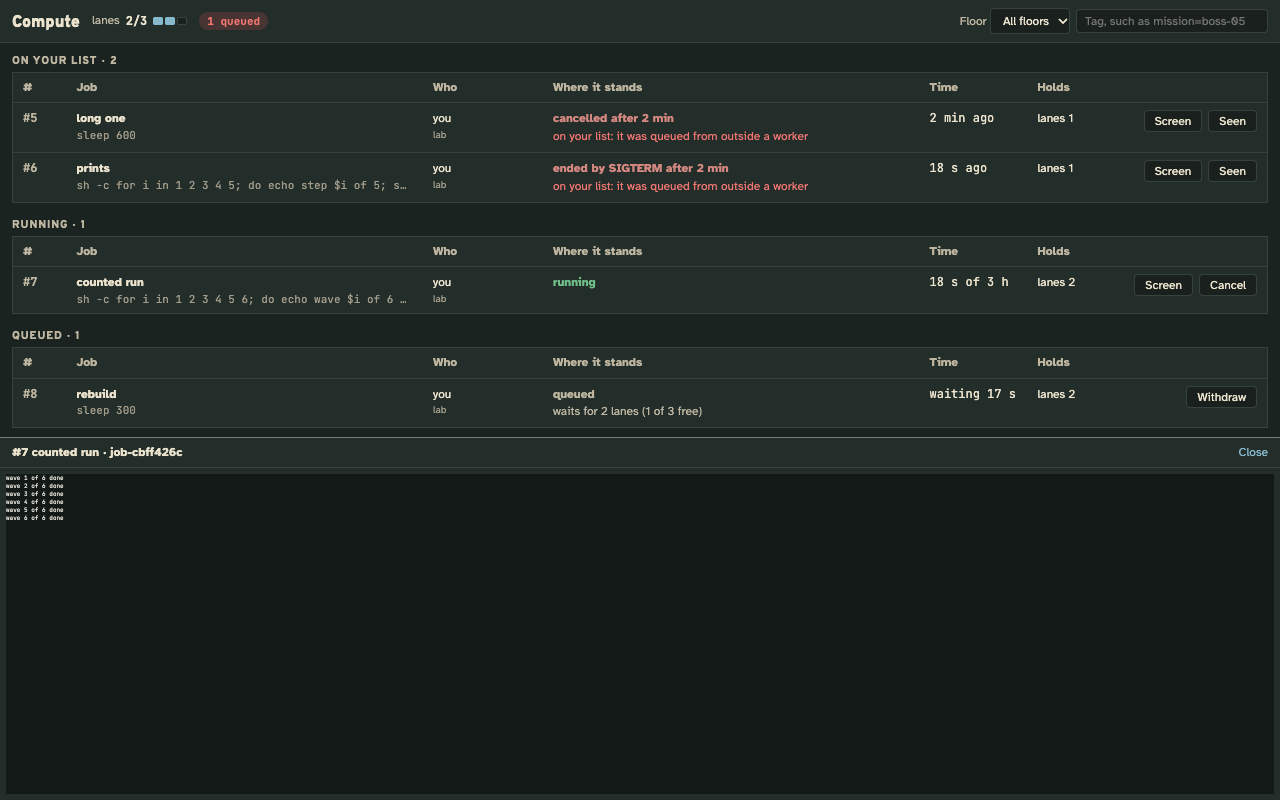
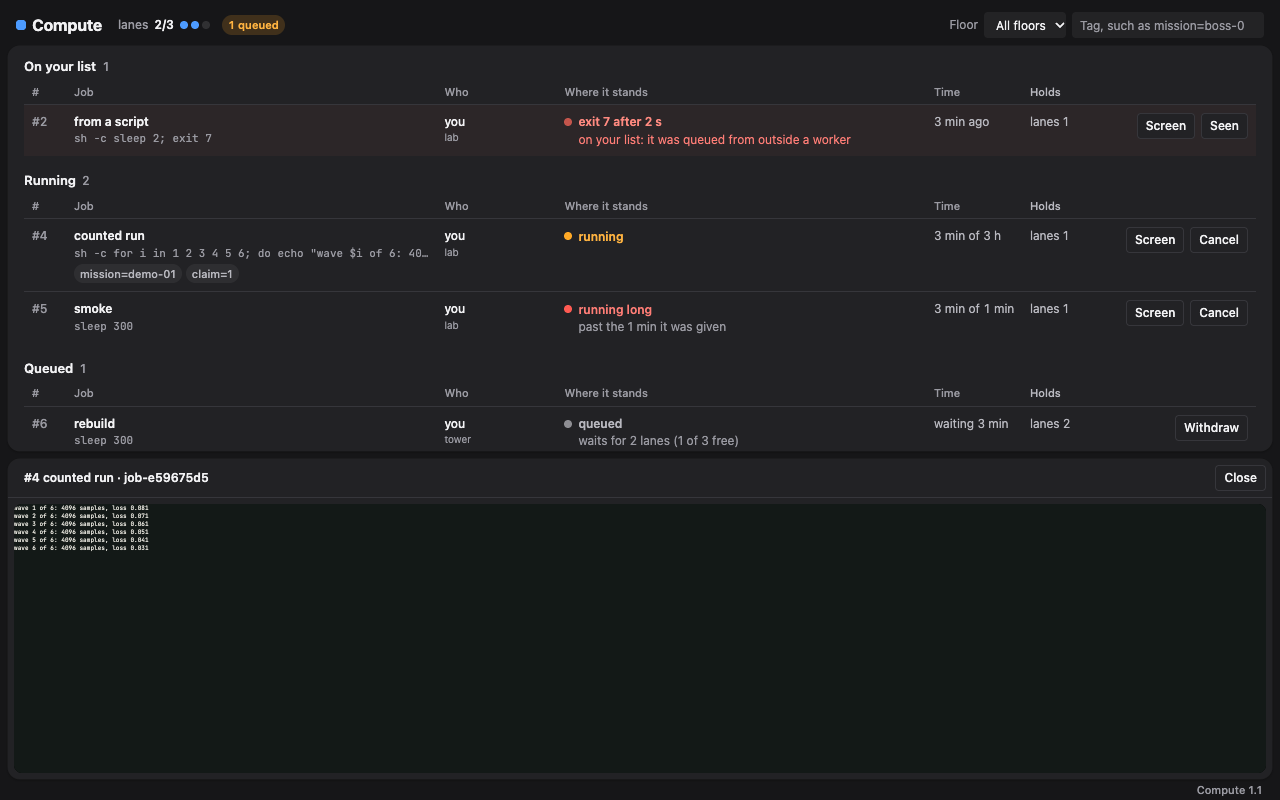
The Compute page wears the Lobby look
The jobs sit in a card set into the window, in Lobby's face, greys and blue
accent, light and dark after the tower's data-scheme: sentence-case section
heads with their count, flat rows, quiet buttons, a lamp before where each
job stands (running amber, exited 0 green, past its hours or on your list
red, queued grey), and the job's screen in a card of its own. The README's
shots and words follow it.

diff --git a/renderer/compute.css b/renderer/compute.css
@@ -1,95 +1,231 @@
 /*
- * The Compute page: the machine's queue, drawn from the board's `x.compute`. It follows the tower's palette
- * (/design.css), light and dark. A state is `t-<tone>` to stay clear of design.css's own class names.
+ * The Compute page in the Lobby's look (the Lobby renderer, tower-renderer-lobby's lobby.css): the top and the foot are
+ * the window's chrome, the jobs a card set into it, in the Lobby's face, greys and blue accent, with sentence-case heads,
+ * flat rows and quiet controls. It draws from the board's `x.compute`.
+ *
+ * Tokens first: each block mirrors a block of /design.css, same selector, so each scheme and contrast keeps its own
+ * values, and the page follows the tower's `data-scheme` as design.css does. Attention keeps its meaning: needs red,
+ * working amber, ready green, quiet grey. --enamel stays the core's: the screen's terminal takes its background from
+ * /lib/terminal.js, not from CSS. A state is `t-<tone>` to stay clear of design.css's own class names (`.needs` blinks).
  */
+:root {
+  --ui: -apple-system, BlinkMacSystemFont, 'SF Pro Text', system-ui, 'Atkinson Hyperlegible', sans-serif;
+  --display: -apple-system, BlinkMacSystemFont, 'SF Pro Display', system-ui, 'Overpass', sans-serif;
+  --radius: 8px;
+  --radius-s: 4px;
+  --radius-l: 12px;
+
+  color-scheme: light;
+  --wall: #e6e6eb;
+  --panel: #ffffff;
+  --panel-2: #f2f2f5;
+  --sunk: #ebebef;
+  --line: #e0e0e5;
+  --line-strong: #8a8a93;
+  --ink: #1d1d1f;
+  --muted: #48484f;
+  --faint: #5f5f67;
+  --deco: #b4b4bc;
+  --accent: #0a62d0;
+  --accent-wash: #e3edfb;
+  --needs: #e0261b;
+  --offered: #0a62d0;
+  --ready: #34c759;
+  --working: #ff9f0a;
+  --quiet: #a1a1a8;
+  --broken: #9b2a22;
+  --needs-text: #c4150b;
+  --ready-text: #1d7433;
+  --working-text: #995500;
+  --broken-text: #9b2a22;
+  --on-needs: #ffffff;
+  --on-offered: #ffffff;
+  --shadow-pop: 0 0 0 .5px #00000026, 0 24px 64px -16px #00000047;
+  --card-shadow: 0 0 0 .5px #00000014, 0 1px 3px #0000000d;
+  --hover: #f6f6f8;
+}
+@media (prefers-color-scheme: dark) {
+  :root:not([data-scheme='light']) {
+    color-scheme: dark;
+    --wall: #161618;
+    --panel: #222225;
+    --panel-2: #2c2c30;
+    --sunk: #1a1a1c;
+    --line: #36363b;
+    --line-strong: #7c7c84;
+    --ink: #f2f2f4;
+    --muted: #b8b8bf;
+    --faint: #9a9aa2;
+    --deco: #5c5c63;
+    --accent: #4c9bff;
+    --accent-wash: #1d3150;
+    --needs: #ff5a52;
+    --offered: #4c9bff;
+    --ready: #32d74b;
+    --working: #ffa926;
+    --quiet: #8e8e93;
+    --broken: #c4554c;
+    --needs-text: #ff7d76;
+    --ready-text: #4cd964;
+    --working-text: #ffb340;
+    --broken-text: #ff8a80;
+    --on-needs: #111113;
+    --on-offered: #111113;
+    --shadow-pop: 0 0 0 .5px #ffffff1f, 0 24px 64px -16px #000000d9;
+    --card-shadow: 0 0 0 .5px #ffffff0f, 0 1px 3px #00000066;
+    --hover: #29292d;
+  }
+}
+:root[data-scheme='dark'] {
+  color-scheme: dark;
+  --wall: #161618;
+  --panel: #222225;
+  --panel-2: #2c2c30;
+  --sunk: #1a1a1c;
+  --line: #36363b;
+  --line-strong: #7c7c84;
+  --ink: #f2f2f4;
+  --muted: #b8b8bf;
+  --faint: #9a9aa2;
+  --deco: #5c5c63;
+  --accent: #4c9bff;
+  --accent-wash: #1d3150;
+  --needs: #ff5a52;
+  --offered: #4c9bff;
+  --ready: #32d74b;
+  --working: #ffa926;
+  --quiet: #8e8e93;
+  --broken: #c4554c;
+  --needs-text: #ff7d76;
+  --ready-text: #4cd964;
+  --working-text: #ffb340;
+  --broken-text: #ff8a80;
+  --on-needs: #111113;
+  --on-offered: #111113;
+  --shadow-pop: 0 0 0 .5px #ffffff1f, 0 24px 64px -16px #000000d9;
+  --card-shadow: 0 0 0 .5px #ffffff0f, 0 1px 3px #00000066;
+  --hover: #29292d;
+}
+/* More contrast: darker secondary text and visible lines, as the Lobby does. */
+:root[data-contrast='more'] { --muted: #35353b; --faint: #45454c; --deco: #5f5f67; --line: #8a8a93; }
+@media (prefers-contrast: more) { :root { --muted: #35353b; --faint: #45454c; --deco: #5f5f67; --line: #8a8a93; } }
+@media (prefers-color-scheme: dark) { :root[data-contrast='more']:not([data-scheme='light']) { --muted: #d6d6dc; --faint: #c0c0c7; --deco: #9a9aa2; --line: #7c7c84; } }
+:root[data-contrast='more'][data-scheme='dark'] { --muted: #d6d6dc; --faint: #c0c0c7; --deco: #9a9aa2; --line: #7c7c84; }
+@media (prefers-contrast: more) and (prefers-color-scheme: dark) { :root:not([data-scheme='light']) { --muted: #d6d6dc; --faint: #c0c0c7; --deco: #9a9aa2; --line: #7c7c84; } }
+@media (prefers-contrast: more) { :root[data-scheme='dark'] { --muted: #d6d6dc; --faint: #c0c0c7; --deco: #9a9aa2; --line: #7c7c84; } }
+
 *, *::before, *::after { box-sizing: border-box; }
 html, body { height: 100%; }
-body { margin: 0; display: flex; flex-direction: column; background: var(--wall); color: var(--ink); font: var(--fs-m)/1.45 var(--ui); }
+body { margin: 0; display: flex; flex-direction: column; background: var(--wall); color: var(--ink); font: var(--fs-m)/1.45 var(--ui); letter-spacing: -.003em; }
 a { color: var(--accent); }
 .note, .muted { color: var(--muted); }
 .note.broken { color: var(--broken-text); }
 .one-line { min-width: 0; overflow: hidden; text-overflow: ellipsis; white-space: nowrap; }
-button.link { padding: 0; border: 0; background: none; color: var(--accent); font: inherit; cursor: pointer; }
+button { font-family: var(--ui); }
+:is(button, select, input):focus-visible { outline: 3px solid color-mix(in oklab, var(--accent) 35%, transparent); outline-offset: 0; }
 
-/* ---- the top: name, the meter, the filters ---- */
-.top { display: flex; flex-wrap: wrap; align-items: center; gap: var(--sp-m) var(--sp-l); padding: var(--sp-m) var(--sp-l); background: var(--panel); border-bottom: 1px solid var(--line); }
-.brand { color: var(--ink); text-decoration: none; font: 900 var(--fs-xl)/1 var(--display); }
+/* Quiet controls, as the Lobby's: a white key with a hairline, its edge darkening when pointed at. */
+button.act, button.quiet { display: inline-flex; align-items: center; min-height: 26px; padding: 0 var(--sp-m); border: 1px solid var(--line); border-radius: var(--radius-s);
+  background: var(--panel); color: var(--ink); font: 500 var(--fs-s)/1 var(--ui); cursor: pointer; }
+:is(button.act, button.quiet):hover { border-color: var(--line-strong); }
+button.act.danger:hover { border-color: color-mix(in oklab, var(--needs) 60%, transparent); color: var(--needs-text); }
+
+/* ---- the chrome at the top: name, the meter, the filters ---- */
+.top { display: flex; flex-wrap: wrap; align-items: center; gap: var(--sp-m) var(--sp-xl); padding: var(--sp-l) var(--sp-xl) var(--sp-m); }
+.brand { display: inline-flex; align-items: center; gap: var(--sp-s); color: var(--ink); text-decoration: none; font: 700 var(--fs-xl)/1 var(--display); letter-spacing: -.01em; }
+.brand::before { content: ''; width: 10px; height: 10px; border-radius: 3px; background: var(--accent); }
 /* `.meter` is design.css's own bar: the lanes' meter is `.c-meter`. */
 .c-meter { display: flex; flex-wrap: wrap; align-items: center; gap: var(--sp-s) var(--sp-l); }
 .res { display: flex; align-items: center; gap: var(--sp-s); font-size: var(--fs-s); }
-.res .name { color: var(--muted); }
-.res .num { font: 700 var(--fs-s) var(--mono); }
-.bar { display: flex; gap: 2px; }
-.bar i { width: 10px; height: 8px; border-radius: 2px; background: var(--sunk); box-shadow: inset 0 0 0 1px var(--line); }
-.bar i.on { background: var(--accent); box-shadow: none; }
+.res .name { color: var(--faint); font-weight: 500; }
+.res .num { font-weight: 600; font-variant-numeric: tabular-nums; }
+.bar { display: flex; gap: 3px; }
+.bar i { width: 8px; height: 8px; border-radius: 50%; background: color-mix(in oklab, var(--ink) 12%, transparent); }
+.bar i.on { background: var(--accent); }
 .res.full .bar i.on { background: var(--needs); }
 .res.full .num { color: var(--needs-text); }
-.queued { padding: 2px 8px; border-radius: var(--radius-pill); background: var(--sunk); color: var(--muted); font: 700 var(--fs-xs) var(--mono); }
-.queued.waiting { background: color-mix(in srgb, var(--needs) 18%, transparent); color: var(--needs-text); }
-.filters { margin-left: auto; display: flex; flex-wrap: wrap; align-items: center; gap: var(--sp-s); font-size: var(--fs-s); color: var(--muted); }
-.filters select, .filters input { padding: 4px 8px; border: 1px solid var(--line); border-radius: var(--radius); background: var(--sunk); color: var(--ink); font: var(--fs-s) var(--ui); }
+.queued { padding: 2px var(--sp-s); border-radius: var(--radius-pill); background: color-mix(in oklab, var(--ink) 7%, transparent); color: var(--faint);
+  font: 600 var(--fs-xs)/1.4 var(--ui); font-variant-numeric: tabular-nums; }
+.queued.waiting { background: color-mix(in oklab, var(--working) 18%, transparent); color: var(--working-text); }
+.filters { margin-left: auto; display: flex; flex-wrap: wrap; align-items: center; gap: var(--sp-s); font-size: var(--fs-s); color: var(--faint); }
+.filters label { display: inline-flex; align-items: center; gap: var(--sp-s); }
+.filters select, .filters input { height: 26px; padding: 0 var(--sp-m); border: 0; border-radius: var(--radius-s); background: color-mix(in oklab, var(--ink) 6%, transparent);
+  color: var(--ink); font: 400 var(--fs-s) var(--ui); }
 .filters input { width: 16em; max-width: 100%; }
-.filters :is(select, input):focus { outline: none; border-color: var(--accent); }
+.filters input::placeholder { color: var(--faint); }
 
-/* ---- the jobs ---- */
-main { flex: 1; min-height: 0; overflow-y: auto; padding: var(--sp-l); }
+/* ---- the jobs: a card set into the window, flat rows in sections ---- */
+main { flex: 1; min-height: 0; overflow-y: auto; margin: 0 var(--sp-m); padding: var(--sp-l) var(--sp-xl); background: var(--panel); border-radius: var(--radius-l); box-shadow: var(--card-shadow); }
 section { margin-bottom: var(--sp-xl); }
-section h2 { margin: 0 0 var(--sp-s); }
-.jobs { width: 100%; table-layout: fixed; border-collapse: collapse; background: var(--panel); border: 1px solid var(--line); border-radius: var(--radius); font-size: var(--fs-s); }
+section:last-child { margin-bottom: 0; }
+section h2 { display: flex; align-items: baseline; gap: var(--sp-s); margin: 0 0 var(--sp-xs); font: 600 var(--fs-m)/1.3 var(--display); letter-spacing: 0; text-transform: none; color: var(--ink); }
+section h2 .count { color: var(--faint); font: 500 var(--fs-s)/1 var(--ui); font-variant-numeric: tabular-nums; }
+.jobs { width: 100%; table-layout: fixed; border-collapse: collapse; font-size: var(--fs-s); }
 /* One set of column widths for every section, so the tables line up. */
-.jobs col.c-n { width: 4.5em; } .jobs col.c-who { width: 10em; } .jobs col.c-state { width: 30%; } .jobs col.c-time { width: 9em; }
-.jobs col.c-holds { width: 7em; } .jobs col.c-acts { width: 13em; }
-.jobs th { text-align: left; padding: 6px 10px; color: var(--muted); font-weight: 600; border-bottom: 1px solid var(--line); white-space: nowrap; }
-.jobs td { padding: 7px 10px; border-bottom: 1px solid var(--line); vertical-align: top; }
+.jobs col.c-n { width: 3.5em; } .jobs col.c-who { width: 10em; } .jobs col.c-state { width: 30%; } .jobs col.c-time { width: 8em; }
+.jobs col.c-holds { width: 6.5em; } .jobs col.c-acts { width: 13em; }
+.jobs th { text-align: left; padding: var(--sp-s) var(--sp-m); color: var(--faint); font: 500 var(--fs-xs)/1.2 var(--ui); border-bottom: 1px solid var(--line); white-space: nowrap; }
+.jobs td { padding: var(--sp-m); border-bottom: 1px solid var(--line); vertical-align: top; }
+.jobs tbody tr:hover td { background: var(--hover); }
 .jobs tr:last-child td { border-bottom: 0; }
-.jobs .n { font: 700 var(--fs-s) var(--mono); color: var(--muted); white-space: nowrap; }
+.jobs .n { color: var(--faint); font-weight: 500; font-variant-numeric: tabular-nums; white-space: nowrap; }
 .jobs .label { font-weight: 600; max-width: 28em; }
-.jobs .cmd { display: block; color: var(--faint); font: var(--fs-xs) var(--mono); max-width: 36em; }
-.jobs .who { white-space: nowrap; }
-.jobs .who small { display: block; color: var(--faint); }
-.jobs .time { white-space: nowrap; font-family: var(--mono); }
+.jobs .cmd { display: block; margin-top: 1px; color: var(--faint); font: var(--fs-xs) var(--mono); max-width: 36em; }
+.jobs .who { white-space: nowrap; font-weight: 500; }
+.jobs .who small { display: block; color: var(--faint); font-weight: 400; }
+.jobs .time { white-space: nowrap; color: var(--muted); font-variant-numeric: tabular-nums; }
+.jobs .needs-col { color: var(--muted); }
 .jobs .acts { white-space: nowrap; text-align: right; }
 .jobs .acts button + button { margin-left: var(--sp-s); }
-.chips { display: flex; flex-wrap: wrap; gap: 4px; }
-.chip-t { padding: 0 7px; border: 1px solid var(--line); border-radius: 999px; color: var(--muted); font: var(--fs-xs) var(--mono); line-height: 1.7; background: none; cursor: pointer; }
-.chip-t:hover { color: var(--ink); border-color: var(--accent); }
-.state { font-weight: 600; }
-.t-ready { color: var(--ready-text); }
-.t-needs { color: var(--needs-text); }
-.t-broken { color: var(--broken-text); }
-.t-quiet { color: var(--muted); }
-.why { display: block; color: var(--muted); font-weight: 400; }
-.listed { display: block; color: var(--needs-text); font-weight: 400; }
-.empty { padding: var(--sp-m); color: var(--muted); }
-button.act { padding: 3px 10px; border: 1px solid var(--line); border-radius: var(--radius); background: var(--sunk); color: var(--ink); font: var(--fs-s) var(--ui); cursor: pointer; }
-button.act:hover { border-color: var(--accent); }
-button.act.danger:hover { border-color: var(--broken); color: var(--broken-text); }
+.chips { display: flex; flex-wrap: wrap; gap: 4px; margin-top: var(--sp-xs); }
+.chip-t { padding: 0 var(--sp-s); border: 0; border-radius: var(--radius-pill); background: color-mix(in oklab, var(--ink) 6%, transparent); color: var(--muted);
+  font: 500 var(--fs-xs)/1.8 var(--ui); cursor: pointer; }
+.chip-t:hover { color: var(--ink); background: color-mix(in oklab, var(--ink) 10%, transparent); }
+/* Where it stands: a lamp in its attention, its word in that tone's text. */
+.state { display: inline-flex; align-items: center; gap: var(--sp-s); font-weight: 600; color: var(--tone-text); }
+.state::before { content: ''; flex: none; width: 8px; height: 8px; border-radius: 50%; background: var(--tone); }
+.t-ready { --tone: var(--ready); --tone-text: var(--ready-text); }
+.t-working { --tone: var(--working); --tone-text: var(--working-text); }
+.t-needs { --tone: var(--needs); --tone-text: var(--needs-text); }
+.t-broken { --tone: var(--broken); --tone-text: var(--broken-text); }
+.t-quiet { --tone: var(--quiet); --tone-text: var(--muted); }
+.why, .listed { display: block; padding-left: calc(8px + var(--sp-s)); font-weight: 400; }
+.why { color: var(--faint); }
+.listed { color: var(--needs-text); }
+/* A job on your list is washed in needs, as a row waiting on you in the Lobby. */
+.jobs tr:has(.listed) td { background: color-mix(in oklab, var(--needs) 5%, var(--panel)); }
+.jobs tr:has(.listed):hover td { background: color-mix(in oklab, var(--needs) 9%, var(--panel)); }
+.empty { padding: var(--sp-s) 0 var(--sp-m); color: var(--faint); font-size: var(--fs-s); }
 
-/* ---- a job's screen, read only, at the foot of the page ---- */
-.screen { flex: 0 0 40vh; display: flex; flex-direction: column; border-top: 1px solid var(--line-strong); background: var(--panel); }
+/* ---- a job's screen, read only: a second card under the jobs ---- */
+.screen { flex: 0 0 40vh; display: flex; flex-direction: column; margin: var(--sp-m) var(--sp-m) 0; overflow: hidden; background: var(--panel); border-radius: var(--radius-l);
+  box-shadow: var(--card-shadow); }
 .screen[hidden] { display: none; }
-.screen-head { display: flex; align-items: center; gap: var(--sp-m); padding: var(--sp-s) var(--sp-l); border-bottom: 1px solid var(--line); font-size: var(--fs-s); }
+.screen-head { display: flex; align-items: center; gap: var(--sp-m); padding: var(--sp-s) var(--sp-s) var(--sp-s) var(--sp-xl); border-bottom: 1px solid var(--line); font-size: var(--fs-s); }
 .screen-head span { flex: 1; font-weight: 600; }
-.screen-term { flex: 1; min-height: 0; padding: var(--sp-s); overflow: hidden; }
+.screen-term { flex: 1; min-height: 0; margin: var(--sp-s); border-radius: var(--radius); overflow: hidden; }
 
-/* ---- which version runs, at the page's foot ---- */
-.foot { flex: none; display: flex; justify-content: flex-end; padding: 2px var(--sp-l); border-top: 1px solid var(--line); background: var(--panel); }
-.version { padding: 0 var(--sp-2xs); border: 0; border-radius: 4px; background: none; color: var(--faint); font: var(--fs-xs) var(--ui); cursor: pointer; }
+/* ---- which version runs, in the chrome at the page's foot ---- */
+.foot { order: 1; flex: none; display: flex; justify-content: flex-end; padding: var(--sp-2xs) var(--sp-l); }
+.version { padding: 2px var(--sp-s); border: 0; border-radius: var(--radius-s); background: none; color: var(--faint); font: 500 var(--fs-xs) var(--ui); cursor: pointer; }
 .version:hover { color: var(--ink); background: color-mix(in oklab, var(--ink) 7%, transparent); }
 
-#toasts { position: fixed; right: var(--sp-l); bottom: var(--sp-l); display: grid; gap: var(--sp-s); }
-.toast { padding: var(--sp-s) var(--sp-m); border-radius: var(--radius); background: var(--ink); color: var(--panel); font-size: var(--fs-s); max-width: 28em; }
+#toasts { position: fixed; right: var(--sp-l); bottom: var(--sp-xl); display: grid; gap: var(--sp-s); }
+.toast { padding: var(--sp-s) var(--sp-m); border-radius: var(--radius); background: var(--panel); color: var(--ink); box-shadow: var(--shadow-pop); font-size: var(--fs-s); max-width: 28em; }
 
 /* Narrow: each job is a block of its cells, stacked, with no header row. */
 @media (max-width: 720px) {
-  main { padding: var(--sp-m); }
+  .top { padding: var(--sp-m) var(--sp-l) var(--sp-s); }
+  main { margin: 0 var(--sp-s); padding: var(--sp-m) var(--sp-l); }
+  .screen { margin: var(--sp-s) var(--sp-s) 0; }
   .filters { margin-left: 0; }
   .jobs, .jobs tbody, .jobs tr, .jobs td { display: block; width: auto; }
   .jobs thead, .jobs colgroup, .jobs .needs-col, .jobs .cmd { display: none; }
-  .jobs tr { position: relative; padding: var(--sp-s) var(--sp-m) var(--sp-s) 3.5em; border-bottom: 1px solid var(--line); }
+  .jobs tr { position: relative; padding: var(--sp-s) 0 var(--sp-s) 2.75em; border-bottom: 1px solid var(--line); }
   .jobs tr:last-child { border-bottom: 0; }
-  .jobs td { padding: 2px 0; border: 0; }
-  .jobs td.n { position: absolute; left: var(--sp-m); top: var(--sp-s); }
+  .jobs td, .jobs tbody tr:hover td, .jobs tr:has(.listed) td { padding: 2px 0; border: 0; background: none; }
+  .jobs tr:has(.listed) { background: color-mix(in oklab, var(--needs) 5%, var(--panel)); }
+  .jobs td.n { position: absolute; left: var(--sp-xs); top: var(--sp-s); }
   .jobs .label { max-width: none; }
   .jobs .acts { text-align: left; padding-top: var(--sp-s); }
 }

diff --git a/renderer/compute.js b/renderer/compute.js
@@ -80,14 +80,17 @@ const waitsFor = (/** @type {Job} */ j, /** @type {Compute} */ c) => {
   return 'its turn: it starts within seconds'
 }
 
-/** A job's state as a word in a tone, and a line under it. */
+/**
+ * A job's state as a word in a tone, and a line under it. The tones are the Lobby's: a running job is working (amber),
+ * one past its hours needs a look (red), one that exited 0 is ready (green), a failed one broken, the rest quiet.
+ */
 const stateOf = (/** @type {Job} */ j, /** @type {Compute} */ c) => {
   if (j.status === 'queued') return { word: 'queued', tone: 'quiet', why: `waits for ${waitsFor(j, c)}` }
-  if (j.status === 'running') return { word: j.overdue ? 'running long' : 'running', tone: j.overdue ? 'needs' : 'ready', why: j.overdue ? `past the ${hoursWords(j.hours ?? 0)} it was given` : '' }
+  if (j.status === 'running') return { word: j.overdue ? 'running long' : 'running', tone: j.overdue ? 'needs' : 'working', why: j.overdue ? `past the ${hoursWords(j.hours ?? 0)} it was given` : '' }
   if (j.status === 'withdrawn') return { word: 'withdrawn', tone: 'quiet', why: '' }
   const ok = /^exit 0\b/.test(j.outcome ?? '')
   const told = !j.told ? 'telling its requester' : j.told.failed !== undefined ? '' : j.told.resumed ? `${j.told.to} was resumed to be told` : j.told.to ? `${j.told.to} was told` : ''
-  return { word: j.outcome ?? 'over', tone: ok ? 'quiet' : 'broken', why: told }
+  return { word: j.outcome ?? 'over', tone: ok ? 'ready' : 'broken', why: told }
 }
 
 /** The time column: how long it has waited, run, or took, and when. */
@@ -136,7 +139,7 @@ const rowHtml = (/** @type {Job} */ j, /** @type {Compute} */ c) => {
 
 const sectionHtml = (/** @type {string} */ title, /** @type {Job[]} */ jobs, /** @type {Compute} */ c, /** @type {string} */ none) => `
   <section>
-    <h2 class="eyebrow">${esc(title)} · ${jobs.length}</h2>
+    <h2>${esc(title)}<span class="count">${jobs.length}</span></h2>
     ${
       jobs.length
         ? `<table class="jobs"><colgroup><col class="c-n"><col><col class="c-who"><col class="c-state"><col class="c-time"><col class="c-holds needs-col"><col class="c-acts"></colgroup><thead><tr><th>#</th><th>Job</th><th>Who</th><th>Where it stands</th><th>Time</th><th class="needs-col">Holds</th><th></th></tr></thead><tbody>${jobs.map((j) => rowHtml(j, c)).join('')}</tbody></table>`

diff --git a/renderer/index.html b/renderer/index.html
@@ -25,7 +25,7 @@
 <aside id="screen" class="screen" hidden>
   <div class="screen-head">
     <span id="screen-title" class="one-line"></span>
-    <button type="button" id="screen-close" class="link">Close</button>
+    <button type="button" id="screen-close" class="quiet">Close</button>
   </div>
   <div id="screen-term" class="screen-term"></div>
 </aside>

diff --git a/README.md b/README.md
@@ -69,15 +69,19 @@ The line:
 
 ### The Compute page
 
-A renderer at `/r/compute/`, drawn from the board's `x.compute` (compute's board part) alone:
+A renderer at `/r/compute/`, drawn from the board's `x.compute` (compute's board part) alone. It wears the look of
+[Lobby](https://github.com/fliptaboada/tower-renderer-lobby), the tower's macOS-style page: the jobs in a card set into
+the window, the system face, greys and a blue accent, light or dark as the tower's scheme is. Colour is kept for where a
+job stands: a job past its hours or on your list in red, a running one amber, one that exited 0 green, a queued or
+withdrawn one grey.
 
-- **The top:** each resource's units in use out of the machine's, as a row of lamps that turns orange when it is full and
+- **The top:** each resource's units in use out of the machine's, as a row of lamps that turns red when it is full and
   jobs wait, and how many are queued. A floor picker and a tag filter, kept in the page's hash so a link keeps them.
 - **The jobs,** in sections: on your list, running, queued, and over in the last day. Each row: its number, label,
   command and tags (a tag filters the page by it), who queued it and from which floor, where it stands (what a queued
   job waits for, a running one past its hours, how an over one ended and how its requester was told), how long it has
-  waited or run or how long ago it ended, and what it holds.
-- **Its buttons:** **Screen** opens the job's live screen at the page's foot, read only, as the jobs daemon keeps it;
+  waited or run or how long ago it ended, and what it holds. Under 720 px wide, each job's cells stack.
+- **Its buttons:** **Screen** opens the job's live screen in a card under the jobs, read only, as the jobs daemon keeps it;
   **Cancel** (**Withdraw** while queued) and **Seen** call compute's own verbs, so a worker can do the same from the
   `tower` command.
 - **Its foot:** the version of Compute the tower loaded (see [Which version you run](#which-version-you-run)).

diff --git a/CHANGELOG.md b/CHANGELOG.md
@@ -8,6 +8,11 @@ meaning); every other release is a **minor**, fixes included. How to cut one:
 
 ## [Unreleased]
 
+### Changed
+- The page wears the Lobby look: the jobs in a card set into the window, the system face, Lobby's greys and blue
+  accent in light and dark, sentence-case section heads, flat rows and quiet buttons, and the job's screen in a card
+  of its own. A running job's lamp is amber and one that exited 0 green, as Lobby's working and done.
+
 ## [1.1] - 2026-11-17
 
 ### Added
